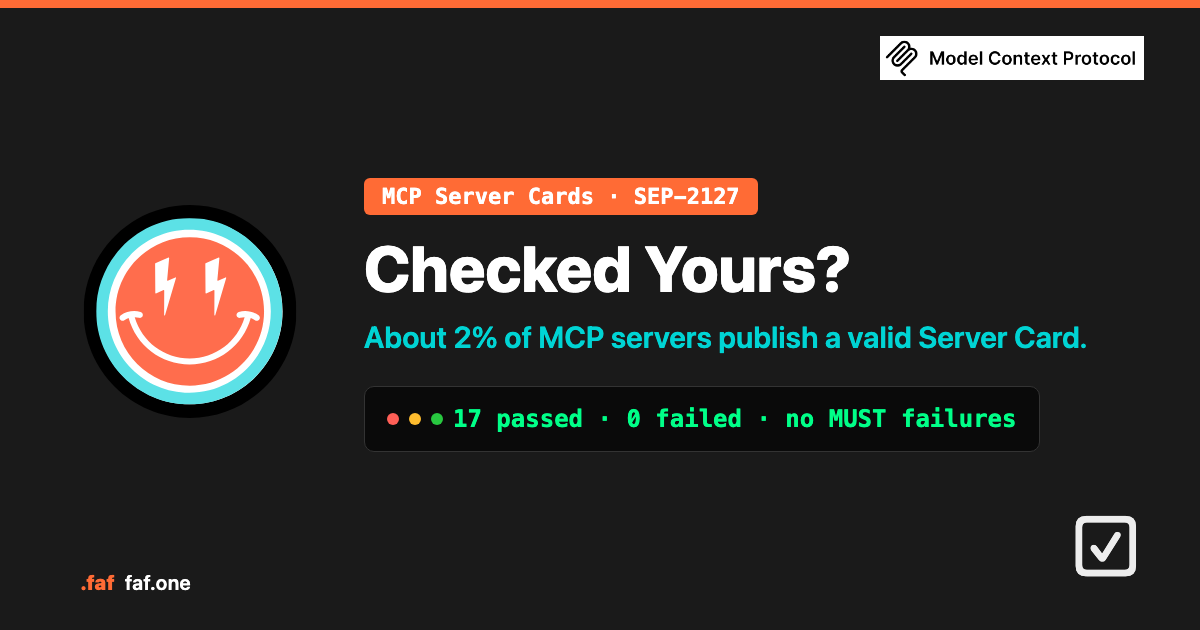
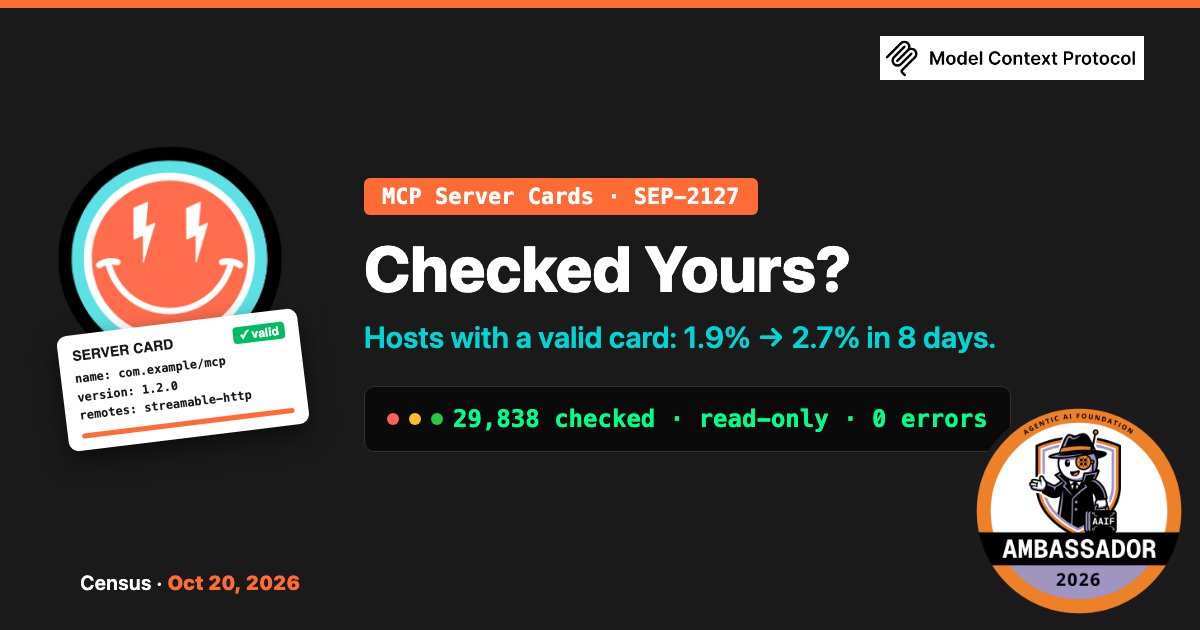
docs: Update Checked Yours? with the Oct 20 census (#85)
- Rewrite reader first: TL;DR, In Plain English, then the facts
- Oct 12 vs Oct 20 table, CORS comparability, how to make yours pass
- New hero (Census, Oct 20, AAIF badge); demo video removed
- Published Oct 13 and Updated Oct 20 in the meta; blog index card updated

diff --git a/src/routes/blog/checked-yours/+page.svelte b/src/routes/blog/checked-yours/+page.svelte
@@ -5,26 +5,27 @@
 	let mounted = false;
 	onMount(() => { mounted = true; });
 
-	const shareText = `MCP Server Cards went Final on Oct 6.
+	const shareText = `MCP Server Cards went Final on Oct 6. We counted every remote server in the MCP Registry on Oct 12, and again on Oct 20.
 
-Six days later we checked every remote endpoint in the MCP Registry: 26,105.
+Hosts with a valid card: 1.9% → 2.7%.
 
-About 2% publish a valid Server Card.
-Only 179 cards send all four CORS headers the spec lists.
+Registry hosts: +18%.
+Hosts with a valid card: +66%.
+Nearly four times faster.
 
-Then we checked our own. It failed two.
-
-Checked yours?`;
+We checked twice. Checked yours?`;
 	const shareUrl = 'https://faf.one/blog/checked-yours';
 	const xIntent = buildShareIntent({ text: shareText, url: shareUrl });
 </script>
 
 <svelte:head>
-	<title>Checked Yours? - MCP Server Cards, Counted | FAF</title>
-	<meta name="description" content="SEP-2127 made MCP Server Cards final. We checked all 26,105 remote endpoints in the MCP Registry: about 2% publish a valid card. Then we checked our own, and it failed two CORS rules. So we built a checker." />
-	<meta property="og:title" content="Checked Yours? - MCP Server Cards, Counted" />
-	<meta property="og:description" content="About 2% of MCP servers publish a valid Server Card. Ours failed two CORS rules. A census, a fix, and a checker anyone can run." />
+	<title>Checked Yours? - MCP Server Cards, Counted Twice | FAF</title>
+	<meta name="description" content="We counted every remote MCP server in the registry on October 12 and again on October 20. Hosts with a valid Server Card rose from 1.9% to 2.7%, nearly four times faster than the registry grew." />
+	<meta property="og:title" content="Checked Yours? - MCP Server Cards, Counted Twice" />
+	<meta property="og:description" content="Hosts with a valid MCP Server Card: 1.9% to 2.7% in eight days. Two read-only counts of the MCP Registry, and how to make yours pass." />
 	<meta property="og:type" content="article" />
+	<meta property="article:published_time" content="2026-10-13" />
+	<meta property="article:modified_time" content="2026-10-20" />
 	<meta name="twitter:card" content="summary_large_image" />
 	<meta property="og:image" content="https://faf.one/blog/checked-yours-hero.png" />
 	<meta name="twitter:image" content="https://faf.one/blog/checked-yours-hero.png" />
@@ -36,26 +37,29 @@ Checked yours?`;
 			<a href="/">Home</a> / <a href="/blog">Blog</a> / Checked Yours?
 		</div>
 		<h1>Checked Yours?</h1>
-		<p class="subtitle">MCP Server Cards went final. We counted who has one, then checked our own.</p>
+		<p class="subtitle">MCP Server Cards, counted twice</p>
 		<div class="meta">
-			<time datetime="2026-10-13">October 13, 2026</time>
+			<time datetime="2026-10-13">Published October 13, 2026</time>
+			<span class="separator">•</span>
+			<time datetime="2026-10-20">Updated October 20, 2026</time>
 			<span class="separator">•</span>
 			<span class="category story">Story</span>
 		</div>
 	</header>
 
 	<div class="hero-image">
-		<img src="/blog/checked-yours-hero.png" alt="Checked Yours? About 2% of MCP servers publish a valid Server Card" />
+		<img src="/blog/checked-yours-hero.png" alt="Checked Yours? Hosts with a valid MCP Server Card: 1.9% to 2.7% in eight days" />
 	</div>
 
 	<article class="post-content">
 		<section class="intro">
 			<p class="lead">
-				<strong>TL;DR:</strong> SEP-2127 made MCP Server Cards final on October 6. Six days later
-				we checked every remote endpoint in the MCP Registry, all 26,105 of them. About
-				<strong>2%</strong> publish a valid Server Card. Then we checked our own card, and it
-				failed two CORS rules. We fixed it the same day and turned the checks into a tool
-				anyone can run.
+				<strong>TL;DR:</strong> MCP Server Cards went Final on October 6. We counted every remote
+				MCP server in the registry on October 12, and again eight days later with the same method.
+				The share of hosts with a valid card rose from <strong>1.9% to 2.7%</strong>. The registry
+				added 18% more hosts in eight days. Hosts with a valid card? 66% more. Nearly four times
+				faster. We checked twice. Most cards still leave browsers out, but the number that don't
+				nearly doubled.
 			</p>
 			<div class="lead plain-english">
 				<p class="plain-label">In Plain English</p>
@@ -65,19 +69,20 @@ Checked yours?`;
 					business card, pinned to the door.
 				</p>
 				<p>
-					<strong>What we found.</strong> Very few servers have one yet. Of the cards that exist,
-					most are missing something browsers need to read them.
+					<strong>What two counts found.</strong> Still very few servers have one, but more each
+					week. Of the cards that exist, most are missing something browsers need to read them.
 				</p>
 				<p>
 					<strong>What you can do.</strong> Paste your server's address into
-					<a href="https://server-card-check.wolfejam2020.workers.dev">Server Card Check</a>. It
-					tells you, rule by rule, what passes and what to fix.
+					<a href="https://servercard.wolfejam.dev">Server Card Check</a>. It tells you, rule by
+					rule, what passes and what to fix.
 				</p>
 			</div>
+			<p><em>The facts follow below.</em></p>
 		</section>
 
 		<section>
-			<h2>A new standard, six days old</h2>
+			<h2>The count, twice</h2>
 			<p>
 				<a href="https://github.com/modelcontextprotocol/modelcontextprotocol/pull/2127">SEP-2127</a>
 				merged as Final on October 6. It gives every MCP server a card: a JSON document with the
@@ -86,134 +91,144 @@ Checked yours?`;
 				<code>/.well-known/ai-catalog.json</code>.
 			</p>
 			<p>
-				We shipped a card within a day of Final. Then the obvious question: how many servers have
-				one? Nobody was counting in public, so we did.
+				We read the whole MCP Registry and kept the latest version of every server with a remote
+				endpoint. Then we checked each address the way a client would, read-only: GET and OPTIONS
+				requests, nothing that changes state. Twice, with the same scripts.
 			</p>
-		</section>
-
-		<section>
-			<h2>The census</h2>
+			<div class="table-wrap">
+				<table class="rot-table">
+					<thead>
+						<tr><th>What we counted</th><th>Oct 12</th><th>Oct 20</th></tr>
+					</thead>
+					<tbody>
+						<tr><td>Registry entries read</td><td>145,157</td><td>162,532</td></tr>
+						<tr><td>Endpoints checked</td><td>26,105</td><td>29,838</td></tr>
+						<tr><td>Something answered at a card location</td><td>3,609</td><td>4,184</td></tr>
+						<tr><td>…a web page, not a card</td><td>637</td><td>733</td></tr>
+						<tr><td>Schema-valid cards</td><td>2,194 (8.4%)</td><td>2,539 (8.5%)</td></tr>
+						<tr class="hot"><td>Valid, by distinct host</td><td>352 of 18,268 (1.9%)</td><td>586 of 21,526 (2.7%)</td></tr>
+						<tr class="hot"><td>Valid, by registry namespace</td><td>344 of 15,926 (2.2%)</td><td>528 of 18,856 (2.8%)</td></tr>
+					</tbody>
+				</table>
+			</div>
 			<p>
-				On October 12 we read the whole MCP Registry (145,157 entries across all versions) and
-				kept the latest version of every server with a remote endpoint. That gave
-				<strong>26,105</strong> addresses. We checked each one the way a client would, read-only:
-				GET and OPTIONS requests, nothing that changes state.
-			</p>
-			<table class="rot-table">
-				<thead>
-					<tr><th>What we counted</th><th>Result</th></tr>
-				</thead>
-				<tbody>
-					<tr><td>Endpoints checked</td><td>26,105</td></tr>
-					<tr><td>Something answered at a card location</td><td>3,609</td></tr>
-					<tr><td>…a web page, not a card</td><td>637</td></tr>
-					<tr><td>Schema-valid cards</td><td>2,194 (8.4%)</td></tr>
-					<tr class="hot"><td>Valid, by distinct host</td><td>352 of 18,268 (1.9%)</td></tr>
-					<tr class="hot"><td>Valid, by registry namespace</td><td>344 of 15,926 (2.2%)</td></tr>
-				</tbody>
-			</table>
-			<p>
-				8.4% looks healthy until you see where it comes from. One gateway publishes a card for
-				each of its 1,791 registry entries. It was an early implementer of the draft, and its
-				cards are real, but 1,791 entries on one host are one deployment. Take it out, or count by
-				host, or by publisher, and the answer is the same: <strong>about 2%</strong>.
+				<strong>Entries are not servers.</strong> 8.5% looks healthy until you see where it comes
+				from. One gateway publishes a card for each of its registry entries: 1,791 on October 12,
+				1,872 now. Its cards are real, but they are one deployment. Count by host, by publisher, or
+				leave that gateway out, and the answer lands in the same place: under 3%.
 			</p>
 			<p>
-				That's the first lesson of counting a registry: entries are not servers. The honest
-				figure needs more than one denominator.
+				<strong>What moved.</strong> In eight days the registry added 12% more entries and 18% more
+				hosts. Hosts with a valid card went from 352 to 586, up 66%. 246 hosts gained one, 197 of
+				them on servers that weren't in the registry a week earlier. 12 lost theirs. Leaving the
+				large gateway out, valid cards went from 403 to 667.
 			</p>
 		</section>
 
 		<section>
 			<h2>Valid is not the same as working</h2>
-			<p>
-				A card can pass the schema and still let its users down. Three patterns stood out:
-			</p>
+			<p>A card can pass the schema and still let its users down.</p>
 			<ul>
 				<li>
-					<strong>Web pages where the card should be.</strong> 637 endpoints answer the card's
+					<strong>Web pages where the card should be.</strong> 733 endpoints answer the card's
 					address with <code>200 OK</code> and an HTML page, usually a catch-all route. A client
-					asked for JSON and got a website.
+					asked for JSON and got a website. 37 of last week's are gone; 133 new ones appeared.
 				</li>
 				<li>
 					<strong>Browsers left out.</strong> The spec says hosted cards MUST send CORS headers
-					and lists four. 2,731 of 2,972 JSON cards send the first one. Only
-					<strong>179</strong> send all four. Without them, a browser-based client can't
-					revalidate the card or read its ETag. Only 433 answer a repeat request with
-					<code>304 Not Modified</code>.
+					and lists four. By the method we used on October 12, the number of JSON cards sending all
+					four rose from <strong>179 to 324</strong> (6.0% to 9.4%). We checked that the yardstick
+					hadn't moved: both versions of the checker, run on the same 200 endpoints in the same
+					minute, agreed on every card. Under the stricter rule the checker uses now, the figure is
+					298.
 				</li>
 				<li>
-					<strong>Plausible but wrong.</strong> The v1 schema accepts any string as a protocol
-					version, so cards can list MCP versions that never existed. It also doesn't connect a
-					card's <code>name</code> to the server's registry name, and some don't match.
+					<strong>Repeat visits.</strong> 553 cards answer a repeat request with
+					<code>304 Not Modified</code>, up from 433. The rest send the whole card every time.
 				</li>
 			</ul>
-		</section>
-
-		<section>
-			<h2>Then we checked ours</h2>
 			<p>
-				Our own card at <code>context.faf.one</code> had shipped within a day of Final. It passed
-				the schema. When we pointed the new checks at it, it failed two CORS rules: it didn't allow
-				the <code>If-None-Match</code> header or expose <code>ETag</code>. And it had no ETag to
-				expose.
-			</p>
-			<p>
-				Our card isn't in the registry, so it wasn't in the census. If it had been, it would have
-				been one of the 2,793 cards missing at least one of the four headers.
-			</p>
-			<p>
-				We fixed it the same day. One wrinkle is worth sharing: our card carries a
-				<code>generated_at</code> time that changes on every request, by design. A strong ETag would
-				never repeat. So the card now sends a <em>weak</em> ETag, hashed without that one field.
-				Weak validators mean "the same meaning", and that's what a client needs to get a
-				<code>304</code>. Two new tests, deployed the same day. The checker now reports
-				<strong>17 passed, 0 failed</strong> for it.
-			</p>
-			<p>
-				If a card written by people who'd just read the spec closely missed two rules, the 2%
-				figure isn't about effort. The rules are new, and nothing was checking them.
+				We checked ours too, on October 12. Our card at <code>context.faf.one</code> passed the
+				schema and failed two CORS rules. It's fixed, and the fix is the worked example below.
 			</p>
 		</section>
 
 		<section>
-			<h2>So we built the check</h2>
+			<h2>How to make yours pass</h2>
 			<p>
-				<a href="https://github.com/Wolfe-Jam/mcp-server-card-check">Server Card Check</a> is the
-				census's checker, made into a tool. It's MIT-licensed and vendor-neutral.
+				The most common failures on October 20, across the 1,579 JSON cards outside the large
+				gateway:
 			</p>
-			<ul>
-				<li><strong>31 checks</strong>, each marked MUST or SHOULD and linked to the spec section it comes from</li>
-				<li><strong>Read-only by default.</strong> GET and OPTIONS only; the transport checks run only when you ask</li>
-				<li><strong>Three ways to run it:</strong> in the browser, from the command line, or as a library</li>
-				<li><strong>CI-ready.</strong> It exits 1 on any MUST failure</li>
-			</ul>
-			<div class="demo-video">
-				<video src="/blog/checked-yours-demo.mp4" autoplay muted loop playsinline aria-label="Server Card Check running against context.faf.one: 17 passed, 0 failed"></video>
+			<div class="table-wrap">
+				<table class="rot-table">
+					<thead>
+						<tr><th>Failure</th><th>Cards</th><th>Fix</th></tr>
+					</thead>
+					<tbody>
+						<tr><td><code>ETag</code> not exposed (MUST)</td><td>1,174</td><td>Send <code>Access-Control-Expose-Headers: ETag</code> on the GET</td></tr>
+						<tr><td>Preflight doesn't allow <code>If-None-Match</code> (MUST)</td><td>1,172</td><td>Answer <code>OPTIONS</code> with <code>Access-Control-Allow-Headers: Content-Type, If-None-Match</code></td></tr>
+						<tr><td>No <code>ETag</code>, no <code>304</code> (SHOULD)</td><td>1,005</td><td>Send an <code>ETag</code>; answer a matching <code>If-None-Match</code> with <code>304</code></td></tr>
+						<tr><td>Not schema-valid (MUST)</td><td>912</td><td>Run the checker; it names the field</td></tr>
+						<tr><td>Wrong content type (SHOULD)</td><td>888</td><td>Serve it as <code>application/mcp-server-card+json</code></td></tr>
+						<tr><td><code>$schema</code> missing or wrong (MUST)</td><td>791</td><td>Use the v1 Server Card schema URL exactly</td></tr>
+						<tr><td><code>description</code> too long or empty (MUST)</td><td>722</td><td>1 to 100 characters</td></tr>
+					</tbody>
+				</table>
 			</div>
+			<p>
+				And the web pages: serve the JSON at <code>/server-card</code>, or return 404 there. Not a
+				200 with your homepage.
+			</p>
+			<p>
+				<strong>A worked example: ours.</strong> Our card carries a <code>generated_at</code> time
+				that changes on every request, by design, so a strong ETag would never repeat. The card now
+				sends a <em>weak</em> ETag, hashed without that one field. Weak validators mean "the same
+				meaning", and that's what a client needs to get a <code>304</code>. One field left out of a
+				hash; two new tests.
+			</p>
 			<div class="terminal-block">
 				<code>npx mcp-server-card-check https://your-server.example/mcp</code>
 			</div>
 			<p>
-				The census scripts are in the same repository, and the
-				<a href="https://github.com/Wolfe-Jam/mcp-server-card-check/blob/main/docs/reference.md">method</a>
-				reproduces every number on this page. We'll re-run it while adoption is moving and
-				publish what changes.
+				<a href="https://github.com/Wolfe-Jam/mcp-server-card-check">Server Card Check</a> is the
+				census's checker, made into a tool: MIT-licensed, vendor-neutral, 39 checks, each marked
+				MUST or SHOULD and linked to the spec section it comes from. Read-only by default. It runs
+				in the browser, from the command line, or as a library, and exits 1 on any MUST failure, so
+				it fits in CI.
 			</p>
+		</section>
+
+		<section>
+			<h2>A shared test</h2>
 			<p>
-				MCP's official conformance suite doesn't test Server Cards yet. We've offered to help
-				write that scenario in the MCP conformance working group. A shared test is better than
-				anyone's private one, including ours.
+				MCP's official conformance suite doesn't test Server Cards yet. There's an open proposal
+				for that scenario
+				(<a href="https://github.com/modelcontextprotocol/conformance/issues/550">conformance #550</a>),
+				and the offer to help write it stands. A shared test is better than anyone's private one,
+				including ours.
 			</p>
+		</section>
+
+		<section>
+			<h2>Method</h2>
+			<p>
+				Registry read at 12:02 UTC on October 20; checks ran until 15:14 UTC, with no errors. 304
+				addresses were templates (such as <code>&#123;tenant&#125;</code>) and were skipped. The
+				checker was v0.4.1. Its rules changed between the two counts (it was reviewed independently
+				twice in between), so every figure compared here was counted by the October 12 method, and
+				that method was re-checked against both versions. Both summaries are in the
+				<a href="https://github.com/Wolfe-Jam/mcp-server-card-check/blob/main/docs/reference.md">repository</a>,
+				with the scripts, so every number on this page can be reproduced.
+			</p>
+			<p>We'll count again while it's moving.</p>
 		</section>
 
 		<section>
 			<h2>Checked yours?</h2>
 			<p>
 				If you run a remote MCP server, paste its address into
-				<a href="https://server-card-check.wolfejam2020.workers.dev">the checker</a>. No card yet?
-				The report tells you what a valid one needs. Have one? It takes ten seconds to see if
-				browsers can read it.
+				<a href="https://servercard.wolfejam.dev">the checker</a>. No card yet? The report tells
+				you what a valid one needs. Have one? It takes ten seconds to see if browsers can read it.
 			</p>
 		</section>
 
@@ -222,7 +237,10 @@ Checked yours?`;
 		</section>
 
 		<section class="footer-note">
-			<p>Built with .faf ☑ even the checks are checked.</p>
+			<p>
+				<strong>What changed on October 20.</strong> This post first appeared on October 13 with the
+				October 12 count. It now carries both counts. No October 12 figure was corrected.
+			</p>
 		</section>
 	</article>
 </div>
@@ -359,6 +377,10 @@ Checked yours?`;
 		font-size: 0.9em;
 	}
 
+	.table-wrap {
+		overflow-x: auto;
+	}
+
 	.rot-table {
 		width: 100%;
 		border-collapse: collapse;
@@ -440,16 +462,5 @@ Checked yours?`;
 		.rot-table td {
 			padding: 0.5rem 0.6rem;
 		}
-	}
-	.demo-video {
-		margin: 1.5rem 0;
-		border-radius: 12px;
-		overflow: hidden;
-		background: #1e1f29; /* literal-ok: video frame behind the Dracula terminal clip */
-	}
-	.demo-video video {
-		width: 100%;
-		height: auto;
-		display: block;
 	}
 </style>

diff --git a/src/routes/blog/+page.svelte b/src/routes/blog/+page.svelte
@@ -55,10 +55,10 @@
 		{
 			slug: 'blog/checked-yours',
 			title: 'Checked Yours?',
-			date: 'October 13, 2026',
-			timestamp: '2026-10-13',
+			date: 'Updated October 20, 2026',
+			timestamp: '2026-10-20',
 			excerpt:
-				'MCP Server Cards went final on October 6. We checked all 26,105 remote endpoints in the MCP Registry: about 2% publish a valid card. Then we checked our own, and it failed two CORS rules.',
+				'We counted every remote MCP server in the registry on October 12 and again on October 20. Hosts with a valid Server Card rose from 1.9% to 2.7%, nearly four times faster than the registry grew.',
 			emoji: '☑',
 			category: 'Story'
 		},
